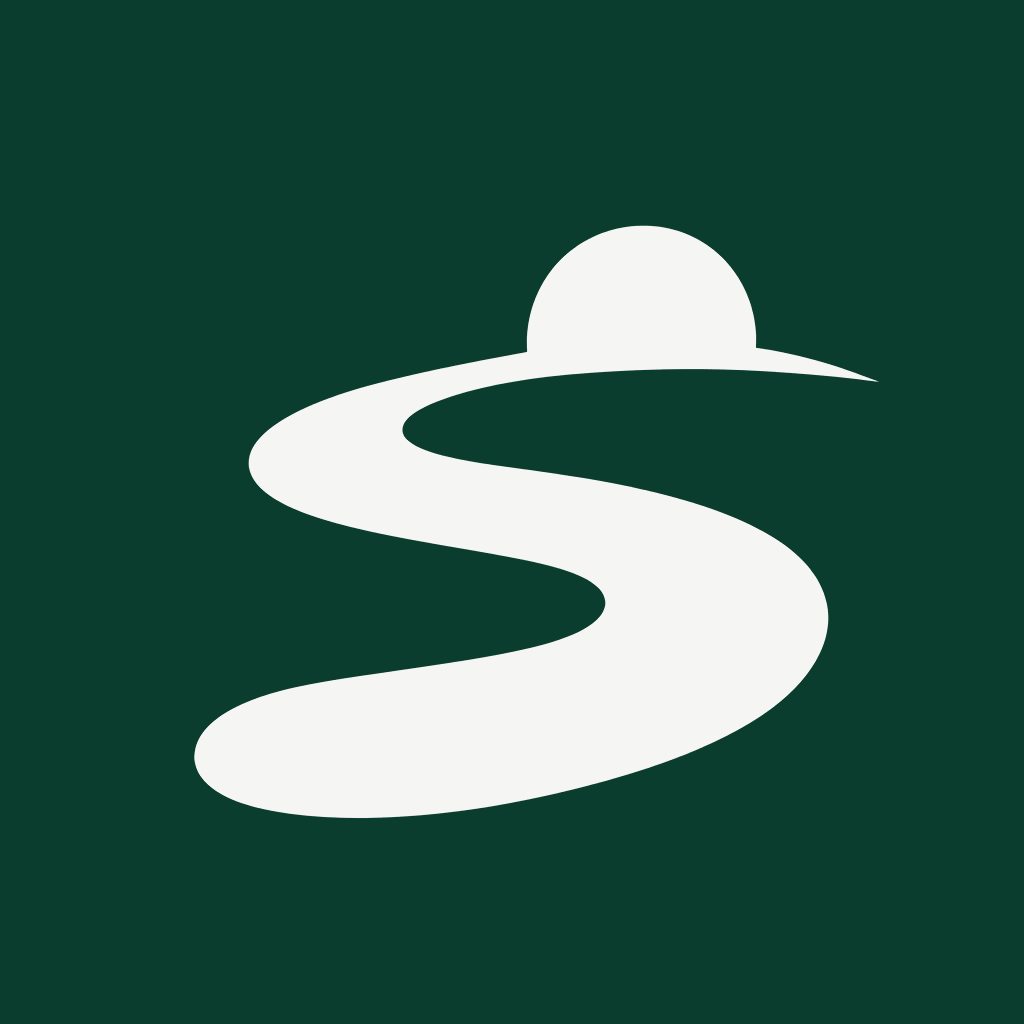
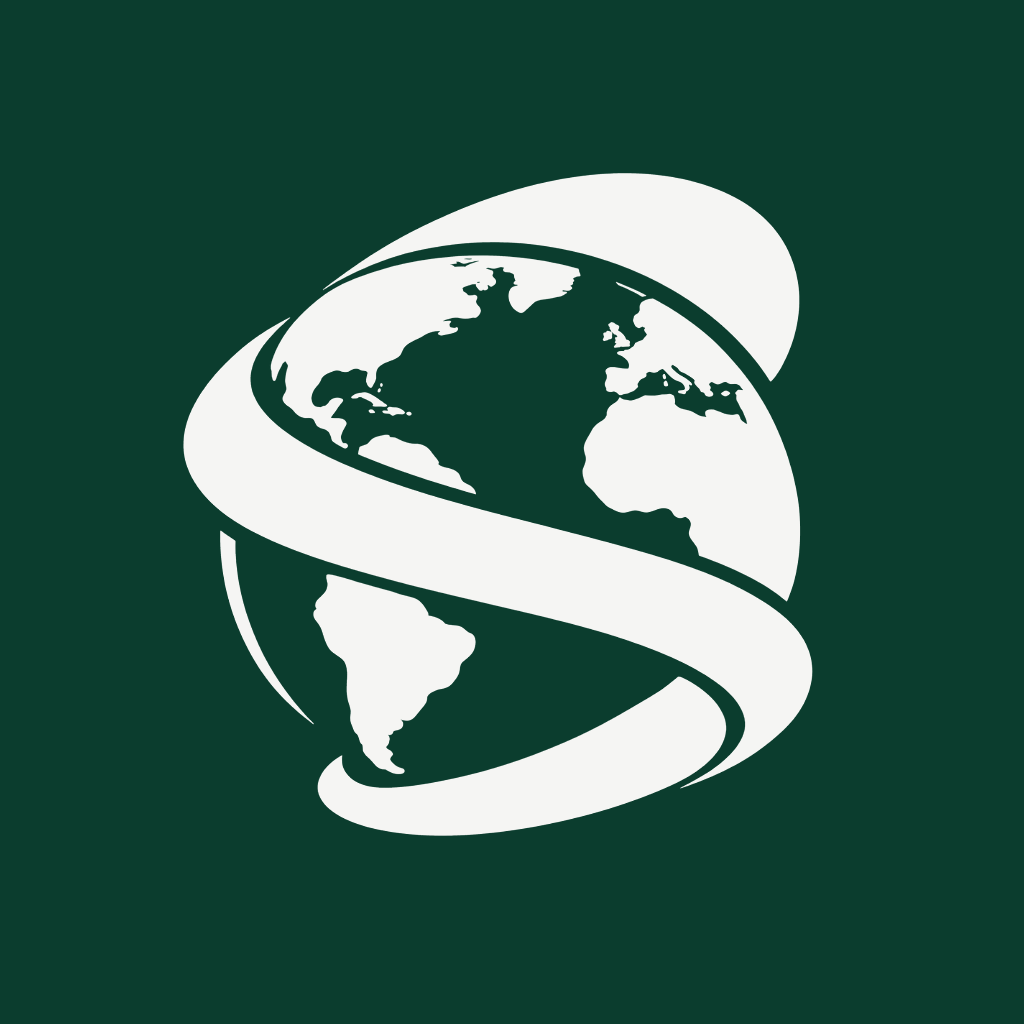
Icone novo: 'Travessia' (S em fita dando a volta no mundo), versao de fundo verde
Escolha do Lucas depois da simulacao no tamanho real. Repintado nas cores
exatas (#F5F5F3 sobre #0B3D2E), 88% do quadro, PNG sem alfa, em todos os
tamanhos (ferramentas/icone-travessia.cjs). Site muda agora; o app muda no
proximo build. Wordmark SPOT em Cinzel nao muda.

Changed region(s): [[0.1562, 0.1562, 0.8438, 0.8438]]

diff --git a/CLAUDE.md b/CLAUDE.md
@@ -113,7 +113,16 @@ Aparece na tela de carregamento, no cabeçalho da tela inicial e no login.
   y=81 e cortaria 3px do topo do S. **Mexeu na fonte ou no espaçamento, remede** —
   dá pra medir no navegador com `measureText` depois de `document.fonts.load`.
 
-**2. O símbolo: uma estrada em "S" com o sol nascendo**, claro sobre azulejo verde.
+**2. O símbolo — desde 28/09/2026: "Travessia"**, um S em fita dando a volta no
+mundo, claro `#F5F5F3` sobre o verde `#0B3D2E` (o Lucas escolheu a versão de fundo
+verde). Original em `ferramentas/marca-travessia-original.webp`; todos os tamanhos
+saem de `node ferramentas/icone-travessia.cjs` (repinta, 88% do quadro, sem alfa).
+Simulado no tamanho real antes da troca: forte na tela inicial, confuso a 29 pt
+(Ajustes) por causa dos continentes — avisado e aceito; uma versão simplificada
+pra ícone (menos continentes, fita mais grossa) ficou como melhoria possível.
+O wordmark "SPOT" em Cinzel NÃO mudou.
+
+**Símbolo anterior (21–28/09): uma estrada em "S" com o sol nascendo**, claro sobre azulejo verde.
 É o ícone do app, e só isso — não entra em tela nenhuma junto do wordmark.
 - Desenho do Lucas (opção "01" de uma folha que ele gerou), entregue em 1024 sem
   cantos arredondados, que é como a Apple pede: ela aplica a máscara dela, e arte
